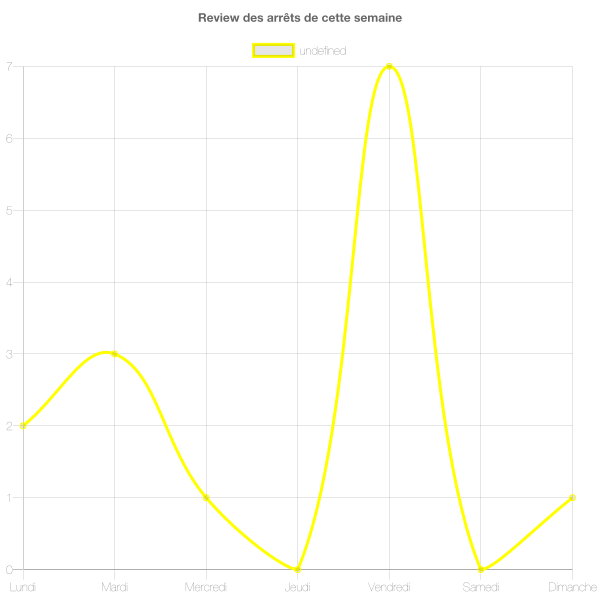
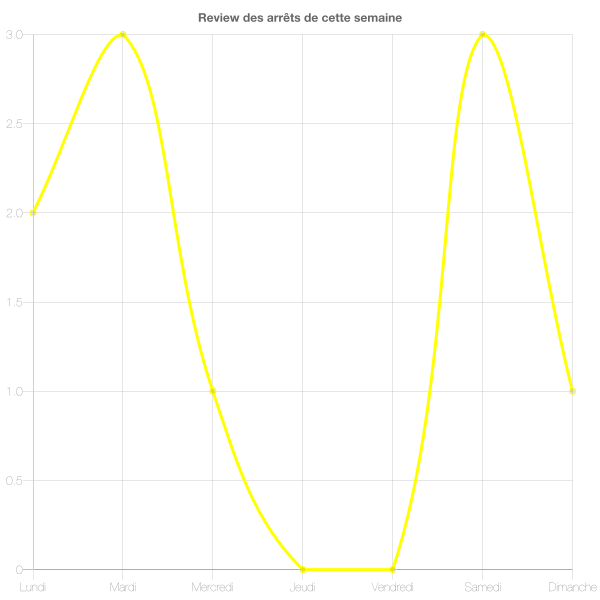
fin de la config du générateur de graph

diff --git a/index.js b/index.js
@@ -38,7 +38,7 @@ t.getProlongation();
 // a besoin de : npm install chartjs-node, npm install chart.js, npm install bluebird, npm install canvas, npm install debug, npm install jsdom, npm install stream-buffers
 // ==> installer les librairies sur ce lien ==> https://github.com/Automattic/node-canvas#installation  (pkg-config cairo pango libpng jpeg giflib librsvg)
 
-let g = new Graph(2,3,1,0,7,0,1,"Review des arrêts de cette semaine");
+let g = new Graph(2,3,1,0,0,3,1,"Review des arrêts de cette semaine");
 g.generate();
 
 

diff --git a/graph.js b/graph.js
@@ -25,6 +25,7 @@ module.exports = class Graph {
 		// réglage de la taille de l'image générée
 		let chartNode = new ChartjsNode(600, 600);
 
+
 		let chartJsOptions = {
          type: 'line',
   data: {
@@ -37,10 +38,16 @@ module.exports = class Graph {
     ]
   },
   options: {
+
     title: {
       display: true,
       text: this.label
-    }
+    },  
+     legend: {
+            display: false
+    },
+
+
   }
 };
 
